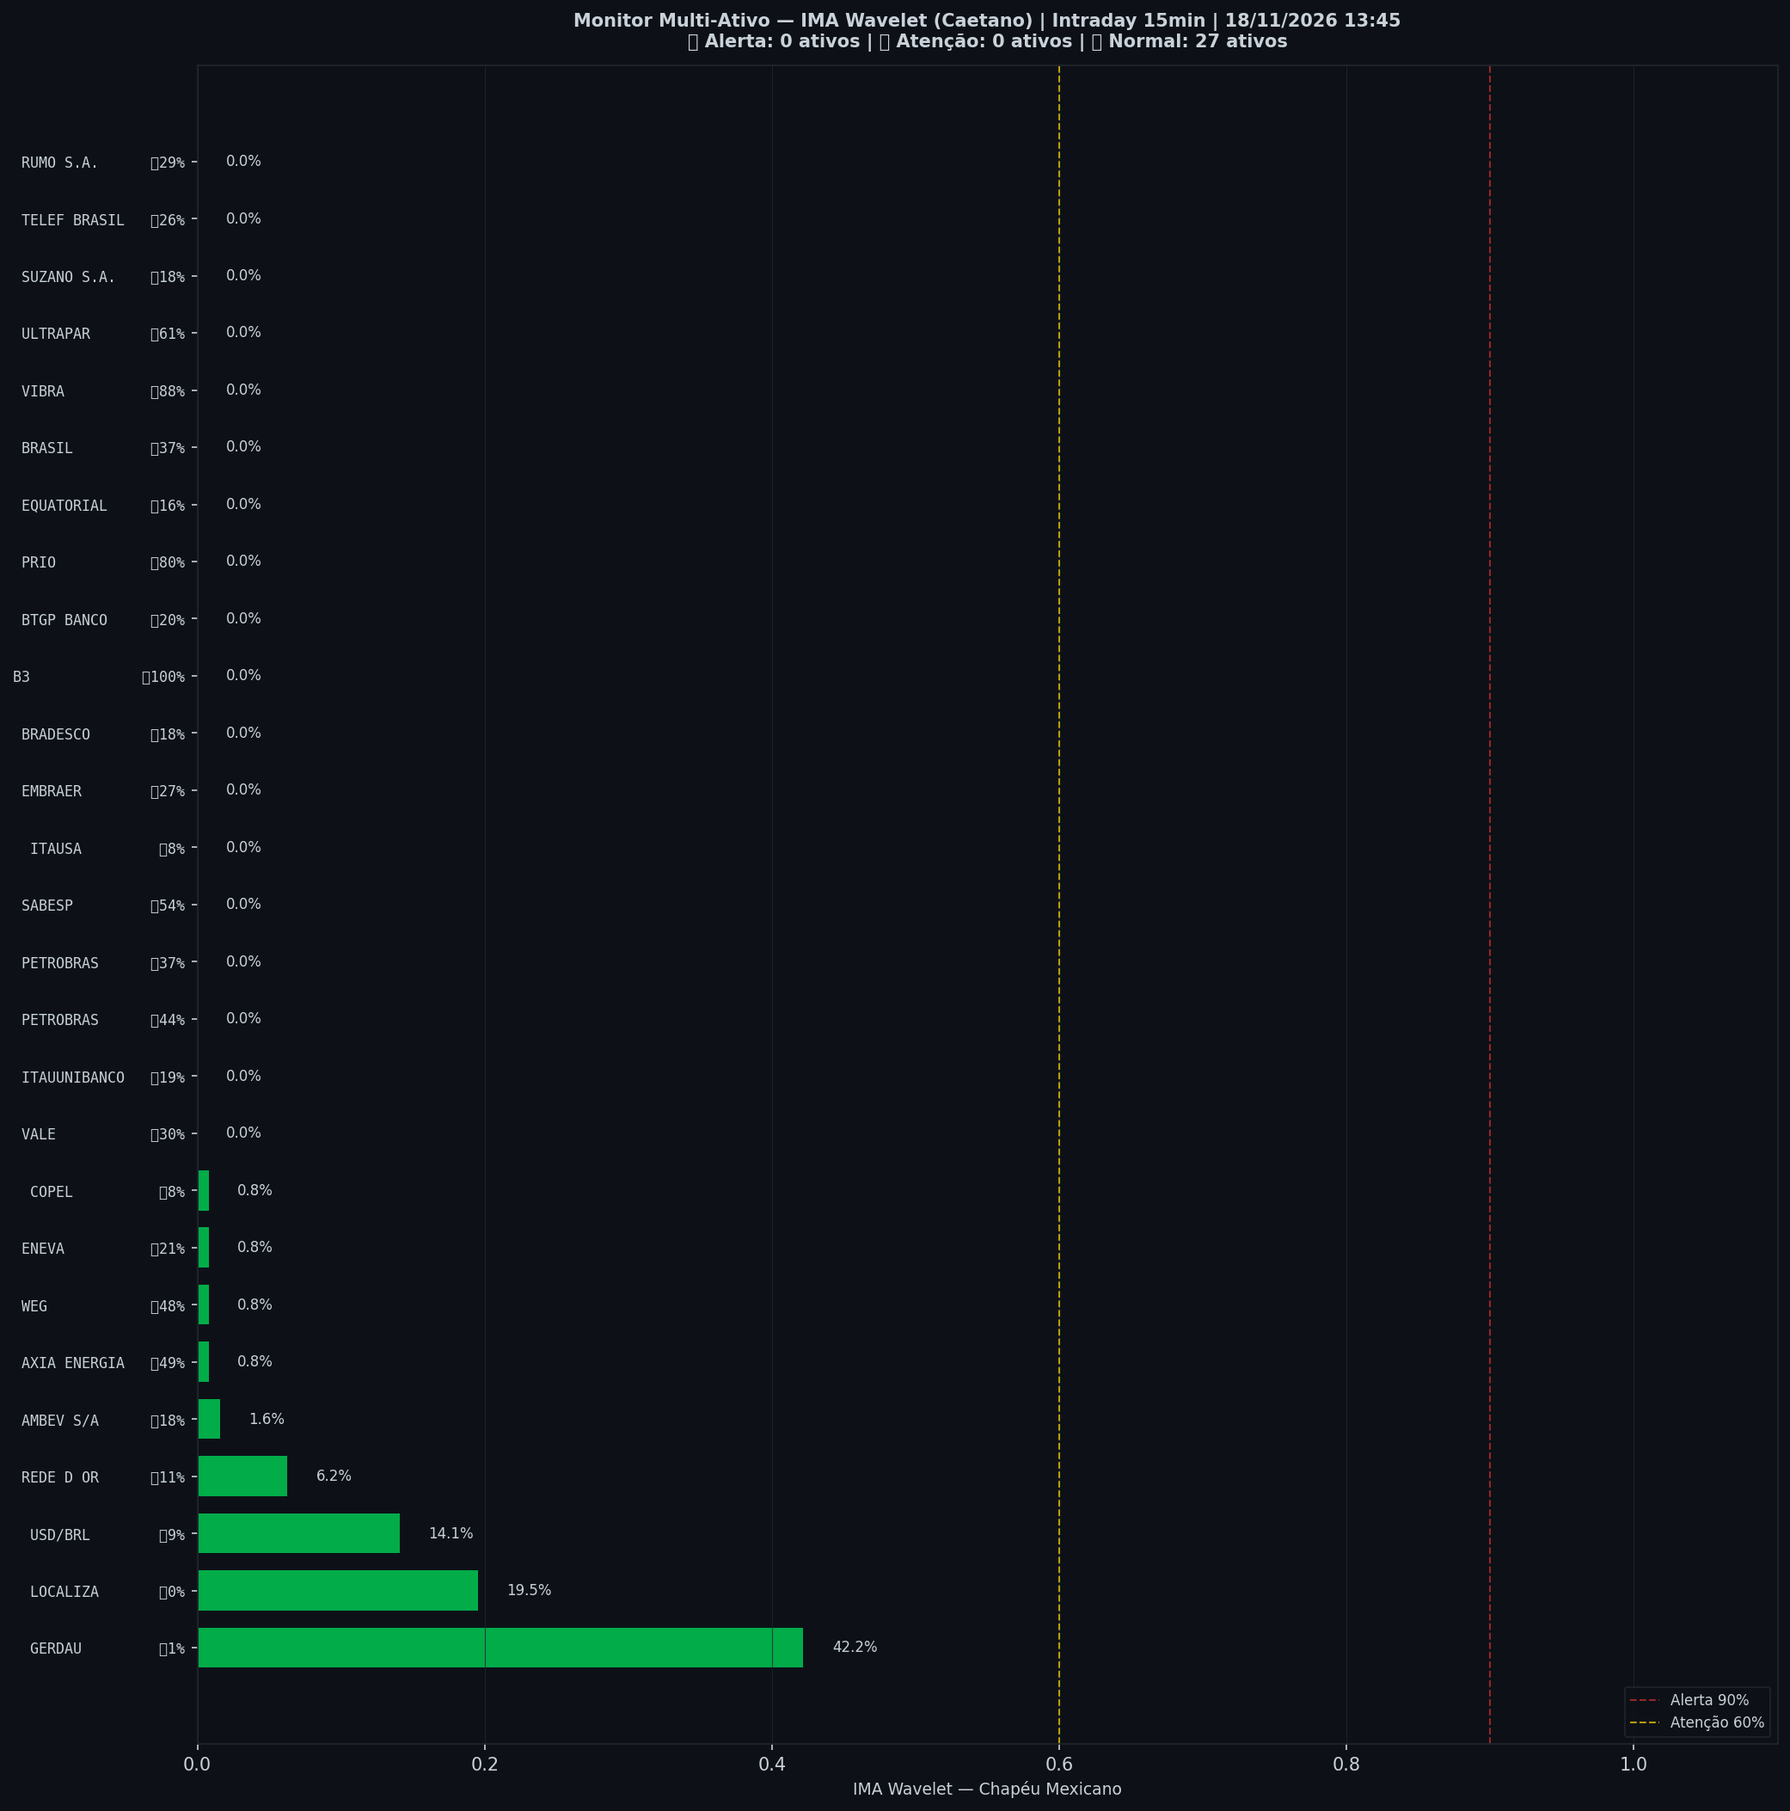
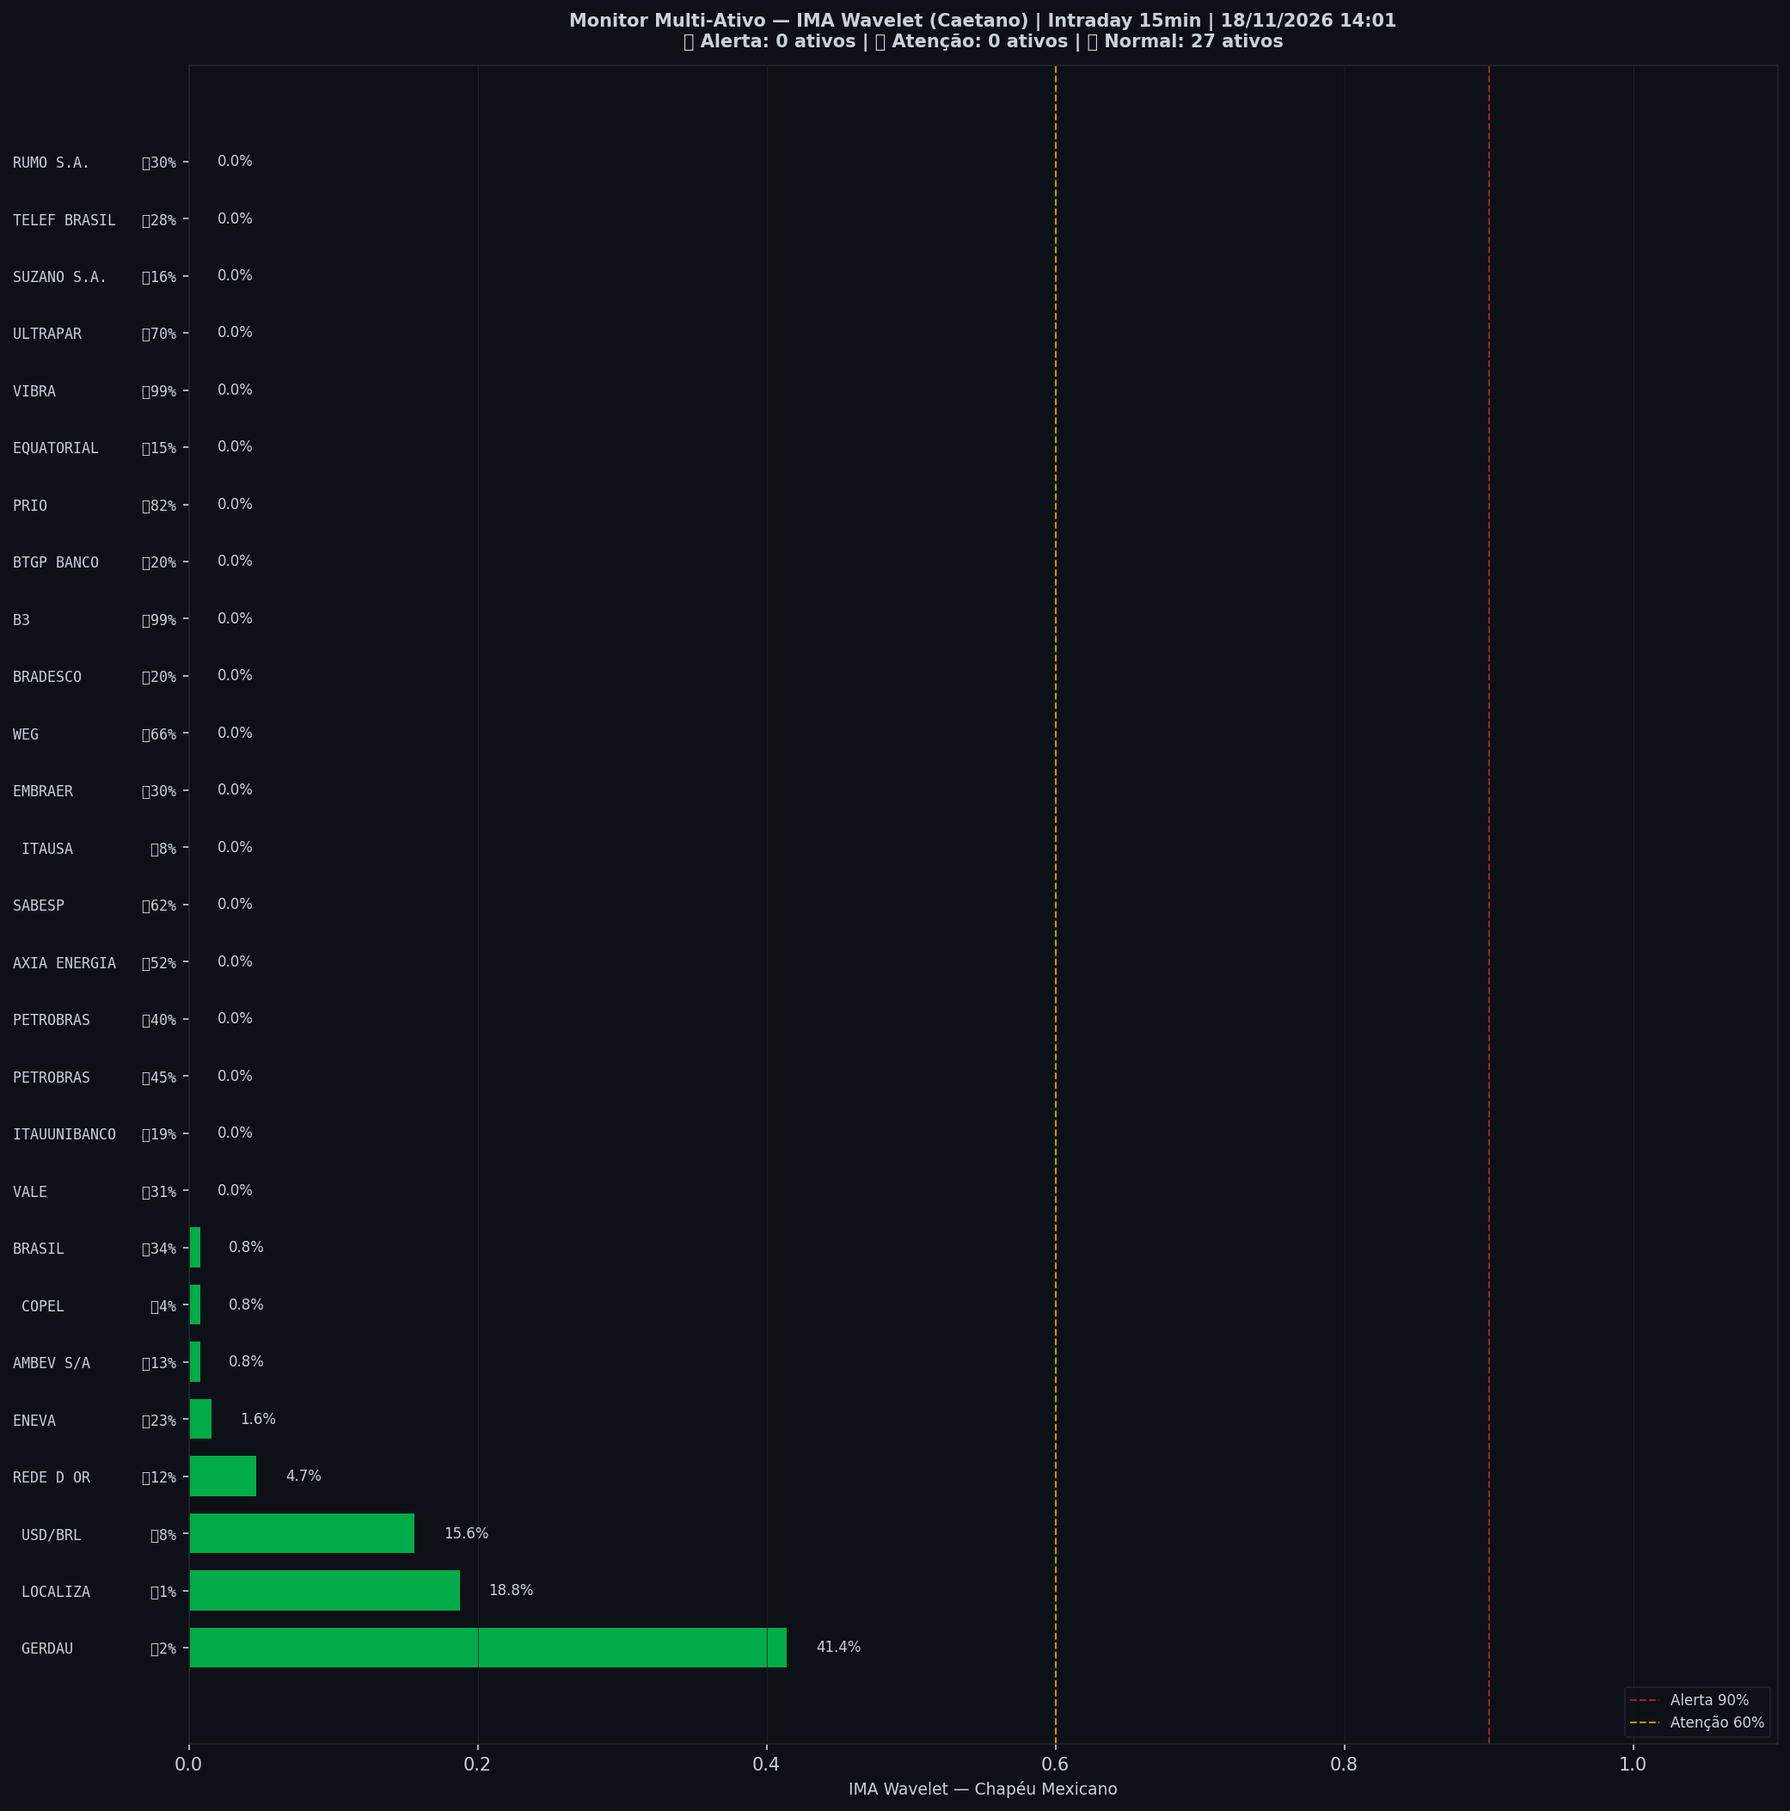
🤖 Auto: Sinal 18/11/2026 14:01

diff --git a/content/intraday/2026-11-18.md b/content/intraday/2026-11-18.md
@@ -1,10 +1,10 @@
 ---
-title: "🟢 Intraday 18/11/2026 13:30 BRT — VERDE"
+title: "🟢 Intraday 18/11/2026 13:45 BRT — VERDE"
 date: 2026-11-18
 tags: [intraday]
 ---
 
-> [!success] Onde o mercado está agora (18/11 13:30, candles de 15 min): **🟢 Calmo**
+> [!success] Onde o mercado está agora (18/11 13:45, candles de 15 min): **🟢 Calmo**
 > `Pânico ◀────────●────────────▶ Euforia`
 >
 > O Ibovespa está dentro da sua faixa normal, sem excesso para cima nem para baixo.
@@ -20,7 +20,7 @@ tags: [intraday]
 > | 📍 **Sinais** | hoje: nenhum sinal | [abrir](sinais-topo-fundo/) |
 > | 🧪 **Placar ao vivo** | 1 operação(ões), 0 com lucro, soma -0,8% | [abrir](operacoes/) |
 
-> [!success] IMA Intraday · 15 min (18/11 13:30): 🟢 **VERDE** — Risco 0% · ＝ +0 p.p. vs leitura anterior
+> [!success] IMA Intraday · 15 min (18/11 13:45): 🟢 **VERDE** — Risco 0% · ＝ +0 p.p. vs leitura anterior
 > `░░░░░░░░░░░░░░░░░░░░`
 > Preço na faixa normal em torno da tendência.
 
@@ -32,13 +32,13 @@ tags: [intraday]
 >
 > *Leitura educacional baseada em 26 anos de dados, não recomendação. [Como usar](../metodologia/crise#3-como-usar-na-prática).*
 
-| Indicador — IMA Intraday · 15 min (18/11 13:30) | Valor |
+| Indicador — IMA Intraday · 15 min (18/11 13:45) | Valor |
 |---|---|
 | 🔴 ζ Topo — preço esticado acima da tendência | **0%** |
-| 🔵 ζ Fundo — preço esticado abaixo da tendência | 23% |
+| 🔵 ζ Fundo — preço esticado abaixo da tendência | 25% |
 | 🫧 LPPL bolha — alta super-exponencial (risco de crash) | 0% |
 | 🫧 LPPL antibolha — queda super-exponencial (risco de repique) | 0% |
-| 📊 Ibovespa | 167.578 pts |
+| 📊 Ibovespa | 167.437 pts |
 
 ![Gráfico do sinal](../graficos/sinal_intraday.png)
 
@@ -46,6 +46,7 @@ tags: [intraday]
 
 | Data | Zona | Evento | Risco | ζ Topo | ζ Fundo | LPPL |
 |---|---|---|---|---|---|---|
+| 2026-11-18 13:45 | 🟢 VERDE |  | **0%** | 0% | 25% | 0% |
 | 2026-11-18 13:30 | 🟢 VERDE |  | **0%** | 0% | 23% | 0% |
 | 2026-11-18 13:15 | 🟢 VERDE |  | **0%** | 0% | 21% | 0% |
 | 2026-11-18 13:00 | 🟢 VERDE |  | **0%** | 0% | 21% | 0% |
@@ -75,52 +76,51 @@ tags: [intraday]
 | 2026-11-17 15:15 | 🟢 VERDE |  | **7%** | 7% | 2% | 0% |
 | 2026-11-17 15:00 | 🟢 VERDE |  | **13%** | 13% | 0% | 0% |
 | 2026-11-17 14:45 | 🟢 VERDE |  | **23%** | 23% | 0% | 0% |
-| 2026-11-17 14:30 | 🟢 VERDE |  | **30%** | 30% | 0% | 0% |
 
 <small>Destaques: 🟡 ≥ 60% · 🔴 ≥ 90% (Risco e ζ Topo) · 🔵 ≥ 60% · 🔪 ≥ 90% (ζ Fundo) · 🫧 ≥ 30% · 🫧🔴 ≥ 50% (LPPL)</small>
 
 ## Monitor Multi-Ativo
 
-**0% dos ativos em tensão** (0🔴 0🟡) · **4 com ζ Fundo alto** — quanto mais ativos disparam juntos, mais confiável o sinal.
+**0% dos ativos em tensão** (0🔴 0🟡) · **6 com ζ Fundo alto** — quanto mais ativos disparam juntos, mais confiável o sinal.
 
 > [!danger] Em destaque no multi-ativo
-> 🔪 **B3** ζ Fundo 100% · 🔵 **VIBRA** ζ Fundo 88% · 🔵 **PRIO** ζ Fundo 80% · 🔵 **ULTRAPAR** ζ Fundo 61%
+> 🔪 **B3** ζ Fundo 99% · 🔪 **VIBRA** ζ Fundo 99% · 🔵 **PRIO** ζ Fundo 82% · 🔵 **ULTRAPAR** ζ Fundo 70% · 🔵 **WEG** ζ Fundo 66% · 🔵 **SABESP** ζ Fundo 62%
 
 | Zona | Ativo | Setor | ζ Topo | ζ Fundo |
 |---|---|---|---|---|
-| 🟢 | **B3** | Financeiro | 0.0% | 🔪 **100.0%** |
-| 🟢 | **VIBRA** | Energia | 0.0% | 🔵 **87.5%** |
-| 🟢 | **PRIO** | Petróleo | 0.0% | 🔵 **80.5%** |
-| 🟢 | **ULTRAPAR** | Outros | 0.0% | 🔵 **60.9%** |
-| 🟢 | **SABESP** | Saneamento | 0.0% | 53.9% |
-| 🟢 | **AXIA ENERGIA** | Energia | 0.8% | 49.2% |
-| 🟢 | **WEG** | Industrial | 0.8% | 48.4% |
-| 🟢 | **PETROBRAS** | Petróleo | 0.0% | 43.8% |
-| 🟢 | **GERDAU** | Siderurgia | 42.2% | 0.8% |
-| 🟢 | **PETROBRAS** | Petróleo | 0.0% | 36.7% |
-| 🟢 | **BRASIL** | Financeiro | 0.0% | 36.7% |
-| 🟢 | **VALE** | Mineração | 0.0% | 30.5% |
-| 🟢 | **RUMO S.A.** | Outros | 0.0% | 28.9% |
-| 🟢 | **EMBRAER** | Outros | 0.0% | 26.6% |
-| 🟢 | **TELEF BRASIL** | Outros | 0.0% | 25.8% |
-| 🟢 | **ENEVA** | Energia | 0.8% | 21.1% |
+| 🟢 | **B3** | Financeiro | 0.0% | 🔪 **99.2%** |
+| 🟢 | **VIBRA** | Energia | 0.0% | 🔪 **99.2%** |
+| 🟢 | **PRIO** | Petróleo | 0.0% | 🔵 **82.0%** |
+| 🟢 | **ULTRAPAR** | Outros | 0.0% | 🔵 **69.5%** |
+| 🟢 | **WEG** | Industrial | 0.0% | 🔵 **65.6%** |
+| 🟢 | **SABESP** | Saneamento | 0.0% | 🔵 **61.7%** |
+| 🟢 | **AXIA ENERGIA** | Energia | 0.0% | 52.3% |
+| 🟢 | **PETROBRAS** | Petróleo | 0.0% | 44.5% |
+| 🟢 | **GERDAU** | Siderurgia | 41.4% | 1.6% |
+| 🟢 | **PETROBRAS** | Petróleo | 0.0% | 39.8% |
+| 🟢 | **BRASIL** | Financeiro | 0.8% | 33.6% |
+| 🟢 | **VALE** | Mineração | 0.0% | 31.2% |
+| 🟢 | **EMBRAER** | Outros | 0.0% | 29.7% |
+| 🟢 | **RUMO S.A.** | Outros | 0.0% | 29.7% |
+| 🟢 | **TELEF BRASIL** | Outros | 0.0% | 28.1% |
+| 🟢 | **ENEVA** | Energia | 1.6% | 23.4% |
+| 🟢 | **BRADESCO** | Financeiro | 0.0% | 19.5% |
 | 🟢 | **BTGP BANCO** | Financeiro | 0.0% | 19.5% |
-| 🟢 | **LOCALIZA** | Aluguel | 19.5% | 0.0% |
 | 🟢 | **ITAUUNIBANCO** | Financeiro | 0.0% | 18.8% |
-| 🟢 | **BRADESCO** | Financeiro | 0.0% | 18.0% |
-| 🟢 | **AMBEV S/A** | Consumo | 1.6% | 18.0% |
-| 🟢 | **SUZANO S.A.** | Papel/Celulose | 0.0% | 18.0% |
-| 🟢 | **EQUATORIAL** | Energia | 0.0% | 16.4% |
-| 🟢 | **USD/BRL** | Câmbio | 14.1% | 9.4% |
-| 🟢 | **REDE D OR** | Saúde | 6.2% | 10.9% |
+| 🟢 | **LOCALIZA** | Aluguel | 18.8% | 0.8% |
+| 🟢 | **SUZANO S.A.** | Papel/Celulose | 0.0% | 15.6% |
+| 🟢 | **USD/BRL** | Câmbio | 15.6% | 7.8% |
+| 🟢 | **EQUATORIAL** | Energia | 0.0% | 14.8% |
+| 🟢 | **AMBEV S/A** | Consumo | 0.8% | 13.3% |
+| 🟢 | **REDE D OR** | Saúde | 4.7% | 12.5% |
 | 🟢 | **ITAUSA** | Financeiro | 0.0% | 7.8% |
-| 🟢 | **COPEL** | Energia | 0.8% | 7.8% |
+| 🟢 | **COPEL** | Energia | 0.8% | 3.9% |
 
 <small>Destaques: 🟡 ≥ 60% · 🔴 ≥ 90% (Risco e ζ Topo) · 🔵 ≥ 60% · 🔪 ≥ 90% (ζ Fundo) · 🫧 ≥ 30% · 🫧🔴 ≥ 50% (LPPL)</small>
 
 ![Monitor multi-ativo](../graficos/multi_intraday.png)
 
-*Página atualizada em 18/11/2026 13:45 BRT (leitura da barra de 2026-11-18 13:30 BRT).*
+*Página atualizada em 18/11/2026 14:01 BRT (leitura da barra de 2026-11-18 13:45 BRT).*
 
 > [!warning] O que este indicador não faz
 > Medido em 5 anos de Ibovespa, o ζ **não antecipa** topos nem fundos: a capacidade de separar o que sobe do que cai ficou em 0,49–0,52, e 0,50 é moeda jogada ao ar. Ele descreve o estado de agora; não é aviso do que vem. As zonas verde/amarelo/vermelho continuam na página como descrição desse estado — **não as use como sinal de entrada ou saída**.

diff --git a/content/index.md b/content/index.md
@@ -6,9 +6,9 @@ tags: [home]
 
 **As ondas do mercado, explicadas.** Leitura do Ibovespa com estatística de 26 anos, baseada no trabalho de pesquisadores e traders reconhecidos e adaptada por Jarbas Daniel da Costa.
 
-*Última atualização: 18/11/2026 13:45 BRT · Intraday 15min*
+*Última atualização: 18/11/2026 14:01 BRT · Intraday 15min*
 
-> [!success] Onde o mercado está agora (18/11 13:30, candles de 15 min): **🟢 Calmo**
+> [!success] Onde o mercado está agora (18/11 13:45, candles de 15 min): **🟢 Calmo**
 > `Pânico ◀────────●────────────▶ Euforia`
 >
 > O Ibovespa está dentro da sua faixa normal, sem excesso para cima nem para baixo.
@@ -44,18 +44,18 @@ tags: [home]
 > *Leitura educacional baseada em 26 anos de dados, não recomendação. [Como usar](metodologia/crise#3-como-usar-na-prática).*
 
 > [!info]- 🌊 Detalhes do Sinal IMA (indicadores e últimos 7 pregões)
-> > [!success] IMA Intraday · 15 min (18/11 13:30): 🟢 **VERDE** — Risco 0% · ＝ +0 p.p. vs leitura anterior
+> > [!success] IMA Intraday · 15 min (18/11 13:45): 🟢 **VERDE** — Risco 0% · ＝ +0 p.p. vs leitura anterior
 > > `░░░░░░░░░░░░░░░░░░░░`
 > > Preço na faixa normal em torno da tendência.
 >
 >
-> | Indicador — IMA Intraday · 15 min (18/11 13:30) | Valor |
+> | Indicador — IMA Intraday · 15 min (18/11 13:45) | Valor |
 > |---|---|
 > | 🔴 ζ Topo — preço esticado acima da tendência | **0%** |
-> | 🔵 ζ Fundo — preço esticado abaixo da tendência | 23% |
+> | 🔵 ζ Fundo — preço esticado abaixo da tendência | 25% |
 > | 🫧 LPPL bolha — alta super-exponencial (risco de crash) | 0% |
 > | 🫧 LPPL antibolha — queda super-exponencial (risco de repique) | 0% |
-> | 📊 Ibovespa | 167.578 pts |
+> | 📊 Ibovespa | 167.437 pts |
 >
 > **Multi-ativo:** 0% em tensão (0🔴 0🟡 de 27 ativos)
 >
@@ -63,7 +63,7 @@ tags: [home]
 >
 > | Data | Zona | Risco | ζ Topo | ζ Fundo | LPPL |
 > |---|---|---|---|---|---|
-> | [18/11/2026](intraday/2026-11-18) | 🟢 VERDE | **0%** | 0% | 23% | 0% |
+> | [18/11/2026](intraday/2026-11-18) | 🟢 VERDE | **0%** | 0% | 25% | 0% |
 > | [17/11/2026](intraday/2026-11-17) | 🟢 VERDE | **0%** | 0% | 0% | 0% |
 >
 > <small>Destaques: 🟡 ≥ 60% · 🔴 ≥ 90% (Risco e ζ Topo) · 🔵 ≥ 60% · 🔪 ≥ 90% (ζ Fundo) · 🫧 ≥ 30% · 🫧🔴 ≥ 50% (LPPL)</small>

diff --git a/content/operacoes/entradas.md b/content/operacoes/entradas.md
@@ -31,7 +31,7 @@ description: "Compra depois de um sinal de fundo: Nadaraya no diário, semáforo
 > | Diário · Semáforo N3 após ζ Fundo | 07/07/26 a 172.021 | 10/08/26 a 172.021 | **+0,0%** | stop no preço de entrada |
 > | H4 · Semáforo N2 | 12/06/26 14h a 171.134 | 15/06/26 14h a 171.134 | **+0,0%** | stop no preço de entrada |
 >
-> <small>Atualizado 17/11 19:00. Nota: ✅ passou no teste fora da amostra (walk-forward 2008–2026) · 🧪 em teste (H4, com aviso no Telegram) ou em observação (ζ, sem aviso) · 🧪 na tabela = operação do teste ao vivo.</small>
+> <small>Atualizado 17/11 19:00 · checado no pregão às 14:00. Nota: ✅ passou no teste fora da amostra (walk-forward 2008–2026) · 🧪 em teste (H4, com aviso no Telegram) ou em observação (ζ, sem aviso) · 🧪 na tabela = operação do teste ao vivo.</small>
 >
 > *Regras: depois de um sinal de fundo, o Diário entra quando o Nadaraya vira para cima; o Semanal e o H4 entram quando um fundo do semáforo fica fixo. Stop e saída de cada regra na [metodologia](metodologia/regras-de-operacao#entradas-do-método). Nenhuma regra de venda passou no teste. Os números do histórico têm viés de escolha (overfitting); o placar ao vivo é o que vale. Leitura educacional do método, não recomendação.*
 

diff --git a/content/integridade/index.md b/content/integridade/index.md
@@ -5,7 +5,7 @@ description: "O que foi conferido, contra qual fonte e quando — medido na hora
 tags: [integridade]
 ---
 
-*Pregão conferido: **17/11/2026**, com 61 tabelas no acervo · página gerada em 18/11/2026 13:46*
+*Pregão conferido: **17/11/2026**, com 61 tabelas no acervo · página gerada em 18/11/2026 14:01*
 
 O pregão conferido é o último **fechado e arquivado inteiro**, não o de hoje: enquanto o dia corre, só algumas tabelas estão gravadas, e conferir um dia pela metade produziria alarme falso.
 
@@ -22,7 +22,7 @@ Esta página não declara que o site está correto. Ela **mede** e escreve o res
 | Tabelas com conteúdo fora da curva | nenhuma |
 | Páginas publicadas | 353 |
 | Conferências cruzadas das páginas | 71 certas, nenhuma divergência |
-| Página escrita mais recentemente | 18/11 13:46 |
+| Página escrita mais recentemente | 18/11 14:01 |
 | Páginas sem data no cabeçalho | 8 — cegas para a conferência de dado |
 
 ## 1 · Acervo do boletim diário

diff --git a/content/historico.md b/content/historico.md
@@ -5,7 +5,7 @@ tags: [historico]
 
 # 📜 Histórico de leituras (v5)
 
-**2.462 leituras** desde 2026-07-03. Na página ficam os últimos 3 dias leitura por leitura e o resumo de cada dia anterior; o registro inteiro está no arquivo para baixar.
+**2.463 leituras** desde 2026-07-03. Na página ficam os últimos 3 dias leitura por leitura e o resumo de cada dia anterior; o registro inteiro está no arquivo para baixar.
 
 [**Baixar o histórico completo**](historico-completo.csv) (108 KB · abre no Excel e no LibreOffice)
 
@@ -16,6 +16,7 @@ tags: [historico]
 
 | Data | Modo | Zona | Risco | IMA | LPPL |
 |---|---|---|---|---|---|
+| 2026-11-18 13:45 | intraday | 🟢 VERDE | 0% | 0% | 0% |
 | 2026-11-18 13:30 | intraday | 🟢 VERDE | 0% | 0% | 0% |
 | 2026-11-18 13:15 | intraday | 🟢 VERDE | 0% | 0% | 0% |
 | 2026-11-18 13:00 | intraday | 🟢 VERDE | 0% | 0% | 0% |

diff --git a/content/operacoes/ranking.md b/content/operacoes/ranking.md
@@ -5,7 +5,7 @@ tags: [operacoes]
 description: "As regras de compra do site ordenadas pelo resultado, com treino, teste e placar ao vivo"
 ---
 
-*Atualizado 18/11/2026 13:46 · histórico simulado com as regras congeladas em 23/10/2026 + placar ao vivo.*
+*Atualizado 18/11/2026 14:01 · histórico simulado com as regras congeladas em 23/10/2026 + placar ao vivo.*
 
 As regras de compra do site, **da que mais rendeu para a que menos rendeu**. O resultado é por operação, no índice à vista, sem custos e sem juros compostos (a soma é só a soma das operações). **Treino** = entradas de 2001 a 2013 e **teste** = 2014 em diante: uma regra só é confiável se ganhou nos dois. O único resultado sem nenhum ajuste ao histórico é o **placar ao vivo**.
 

diff --git a/content/linha-do-tempo/index.md b/content/linha-do-tempo/index.md
@@ -5,7 +5,7 @@ description: "Todo sinal, ordem, stop e aviso do Pêndulo de Mercado, do mais re
 tags: [eventos]
 ---
 
-*Atualizada 18/11/2026 13:46 BRT · a cada 15 min no pregão e às 19h.*
+*Atualizada 18/11/2026 14:01 BRT · a cada 15 min no pregão e às 19h.*
 
 Tudo o que o sistema fez ou detectou, **do mais recente para o mais antigo**: sinais de topo e fundo, ordens de compra e de venda armadas, compras, vendas, stops, avisos de 🚨 preço perto do nível e mudanças do Sinal IMA. Os **últimos 7 dias** ficam abertos; o resto, por **ano → mês → dia**.
 

diff --git a/content/avisos/index.md b/content/avisos/index.md
@@ -2,7 +2,7 @@
 title: "⚠ Avisos: o que saber antes de usar os números"
 ---
 
-*Gerado em 18/11/2026 13:46*
+*Gerado em 18/11/2026 14:01*
 
 Este site publica muitos números, e cada um tem uma limitação que importa na hora de
 decidir. As limitações estão escritas nas próprias páginas, mas quem chega direto numa
